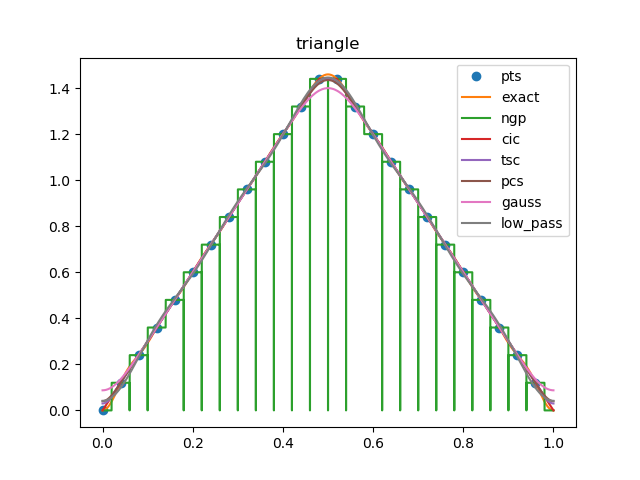
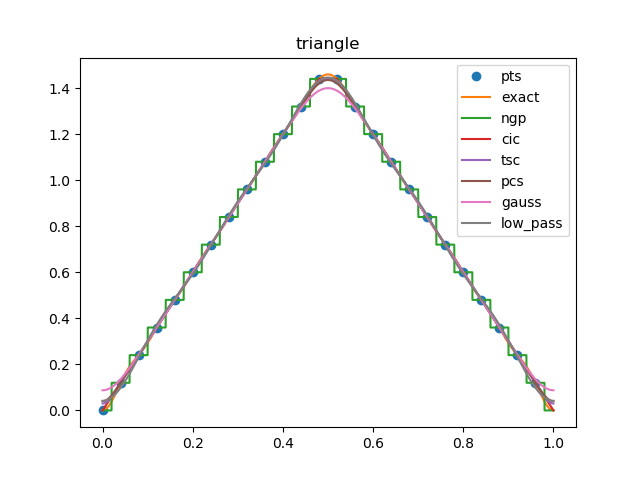
fixed the NGP filter

Changed region(s): [[0.2812, 0.1875, 0.5625, 0.875], [0.5938, 0.3438, 0.8438, 0.875], [0.1875, 0.75, 0.25, 0.8438]]

diff --git a/tests/1d-interpolation.cpp b/tests/1d-interpolation.cpp
@@ -24,31 +24,67 @@ void test(const int N_points, const double tolerance, callable F)
     BOOST_CHECK_SMALL(max_diff, tolerance);
 }
 
-template <class filter_t, class callable>
-void test_case(callable F)
-{
-    test<12, filter_t>(10'000, 0.1, F);
-    test<100, filter_t>(10'000, 0.01, F);
-    test<1000, filter_t>(10'000, 0.001, F);
-}
-
 struct triangle_test_suite : public ut::test_suite
 {
     triangle_test_suite() : ut::test_suite("Triangular shape")
     {
         auto F = [](double x) { return 3 * std::min(x, 1 - x); };
+        add(BOOST_TEST_CASE_NAME(
+            std::bind(&test<12, PM::NGP_filter, decltype(F)>, 10'000, 0.1, F),
+            "NGP 12modes"));
+        add(BOOST_TEST_CASE_NAME(
+            std::bind(&test<100, PM::NGP_filter, decltype(F)>, 10'000, 0.01, F),
+            "NGP 100modes"));
+        add(BOOST_TEST_CASE_NAME(
+            std::bind(&test<1000, PM::NGP_filter, decltype(F)>, 10'000, 0.001,
+                      F),
+            "NGP 1000modes"));
 
         add(BOOST_TEST_CASE_NAME(
-            std::bind(&test_case<PM::NGP_filter, decltype(F)>, F), "NGP"));
+            std::bind(&test<12, PM::CIC_filter, decltype(F)>, 10'000, 0.1, F),
+            "CIC 12modes"));
         add(BOOST_TEST_CASE_NAME(
-            std::bind(&test_case<PM::CIC_filter, decltype(F)>, F), "CIC"));
+            std::bind(&test<100, PM::CIC_filter, decltype(F)>, 10'000, 0.01, F),
+            "CIC 100modes"));
         add(BOOST_TEST_CASE_NAME(
-            std::bind(&test_case<PM::TSC_filter, decltype(F)>, F), "TSC"));
+            std::bind(&test<1000, PM::CIC_filter, decltype(F)>, 10'000, 0.001,
+                      F),
+            "CIC 1000modes"));
+
         add(BOOST_TEST_CASE_NAME(
-            std::bind(&test_case<PM::PCS_filter, decltype(F)>, F), "PCS"));
+            std::bind(&test<12, PM::TSC_filter, decltype(F)>, 10'000, 0.1, F),
+            "TSC 12modes"));
         add(BOOST_TEST_CASE_NAME(
-            std::bind(&test_case<PM::Gaussian_filter, decltype(F)>, F),
-            "Gaussian"));
+            std::bind(&test<100, PM::TSC_filter, decltype(F)>, 10'000, 0.01, F),
+            "TSC 100modes"));
+        add(BOOST_TEST_CASE_NAME(
+            std::bind(&test<1000, PM::TSC_filter, decltype(F)>, 10'000, 0.001,
+                      F),
+            "TSC 1000modes"));
+
+        add(BOOST_TEST_CASE_NAME(
+            std::bind(&test<12, PM::PCS_filter, decltype(F)>, 10'000, 0.1, F),
+            "PCS 12modes"));
+        add(BOOST_TEST_CASE_NAME(
+            std::bind(&test<100, PM::PCS_filter, decltype(F)>, 10'000, 0.01, F),
+            "PCS 100modes"));
+        add(BOOST_TEST_CASE_NAME(
+            std::bind(&test<1000, PM::PCS_filter, decltype(F)>, 10'000, 0.001,
+                      F),
+            "PCS 1000modes"));
+
+        add(BOOST_TEST_CASE_NAME(
+            std::bind(&test<12, PM::Gaussian_filter, decltype(F)>, 10'000, 0.15,
+                      F),
+            "Gaussian 12modes"));
+        add(BOOST_TEST_CASE_NAME(
+            std::bind(&test<100, PM::Gaussian_filter, decltype(F)>, 10'000,
+                      0.015, F),
+            "Gaussian 100modes"));
+        add(BOOST_TEST_CASE_NAME(
+            std::bind(&test<1000, PM::Gaussian_filter, decltype(F)>, 10'000,
+                      0.0015, F),
+            "Gaussian 1000modes"));
     }
 };
 struct sine_test_suite : public ut::test_suite
@@ -56,20 +92,48 @@ struct sine_test_suite : public ut::test_suite
     sine_test_suite() : ut::test_suite("Sine shape")
     {
         auto F = [](double x) {
-            return sin(x * 2 * pi * 6) + sin(x * 2 * pi * 5);
+            return sin(2 * pi * x * 6) + sin(2 * pi * x * 5);
         };
+        add(BOOST_TEST_CASE_NAME(
+            std::bind(&test<100, PM::NGP_filter, decltype(F)>, 10'000, 0.2, F),
+            "NGP 100modes"));
+        add(BOOST_TEST_CASE_NAME(
+            std::bind(&test<1000, PM::NGP_filter, decltype(F)>, 10'000, 0.02,
+                      F),
+            "NGP 1000modes"));
 
         add(BOOST_TEST_CASE_NAME(
-            std::bind(&test_case<PM::NGP_filter, decltype(F)>, F), "NGP"));
+            std::bind(&test<100, PM::CIC_filter, decltype(F)>, 10'000, 0.01, F),
+            "CIC 100modes"));
         add(BOOST_TEST_CASE_NAME(
-            std::bind(&test_case<PM::CIC_filter, decltype(F)>, F), "CIC"));
+            std::bind(&test<1000, PM::CIC_filter, decltype(F)>, 10'000, 0.001,
+                      F),
+            "CIC 1000modes"));
+
         add(BOOST_TEST_CASE_NAME(
-            std::bind(&test_case<PM::TSC_filter, decltype(F)>, F), "TSC"));
+            std::bind(&test<100, PM::TSC_filter, decltype(F)>, 10'000, 0.01, F),
+            "TSC 100modes"));
         add(BOOST_TEST_CASE_NAME(
-            std::bind(&test_case<PM::PCS_filter, decltype(F)>, F), "PCS"));
+            std::bind(&test<1000, PM::TSC_filter, decltype(F)>, 10'000, 0.001,
+                      F),
+            "TSC 1000modes"));
+
         add(BOOST_TEST_CASE_NAME(
-            std::bind(&test_case<PM::Gaussian_filter, decltype(F)>, F),
-            "Gaussian"));
+            std::bind(&test<100, PM::PCS_filter, decltype(F)>, 10'000, 0.01, F),
+            "PCS 100modes"));
+        add(BOOST_TEST_CASE_NAME(
+            std::bind(&test<1000, PM::PCS_filter, decltype(F)>, 10'000, 0.001,
+                      F),
+            "PCS 1000modes"));
+
+        add(BOOST_TEST_CASE_NAME(
+            std::bind(&test<100, PM::Gaussian_filter, decltype(F)>, 10'000,
+                      0.03, F),
+            "Gaussian 100modes"));
+        add(BOOST_TEST_CASE_NAME(
+            std::bind(&test<1000, PM::Gaussian_filter, decltype(F)>, 10'000,
+                      0.0015, F),
+            "Gaussian 1000modes"));
     }
 };
 

diff --git a/include/pm/filters.hpp b/include/pm/filters.hpp
@@ -25,7 +25,11 @@ namespace PM
         constexpr static int int_width = 2;
         constexpr static double width = int_width * 0.5;
 
-        double operator()(double x) const { return std::abs(x) < 0.5 ? 1 : 0; }
+        double operator()(double x) const
+        {
+            auto s = std::abs(x);
+            return s < 0.5 ? 1 : (s > 0.5 ? 0 : 0.5);
+        }
     };
 
     class CIC_filter
